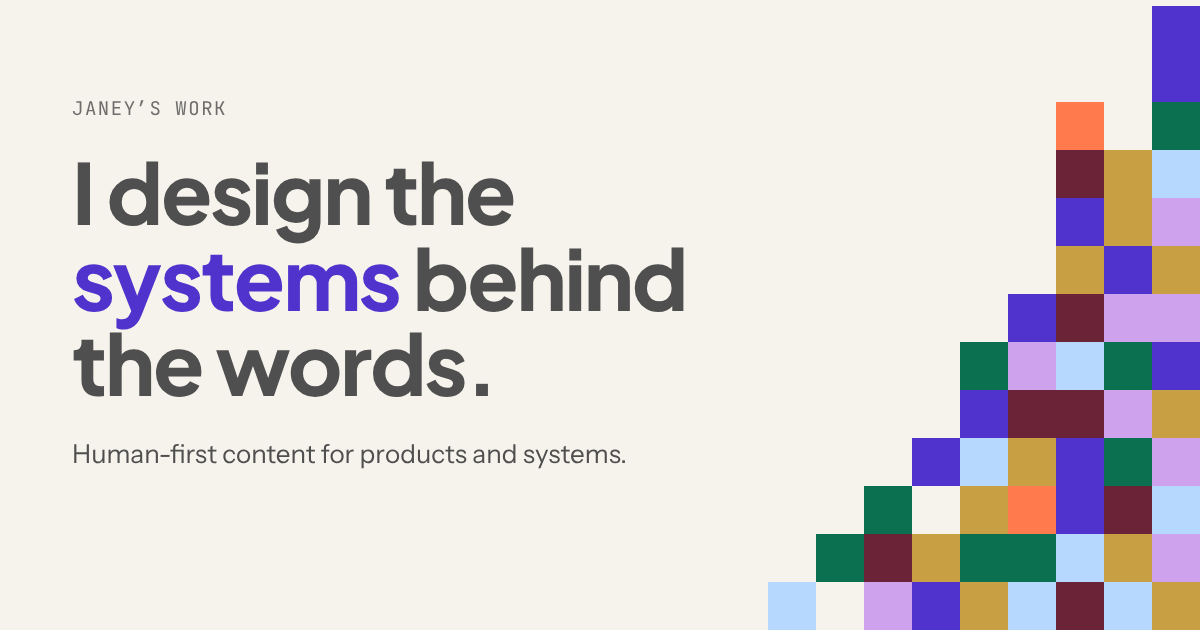
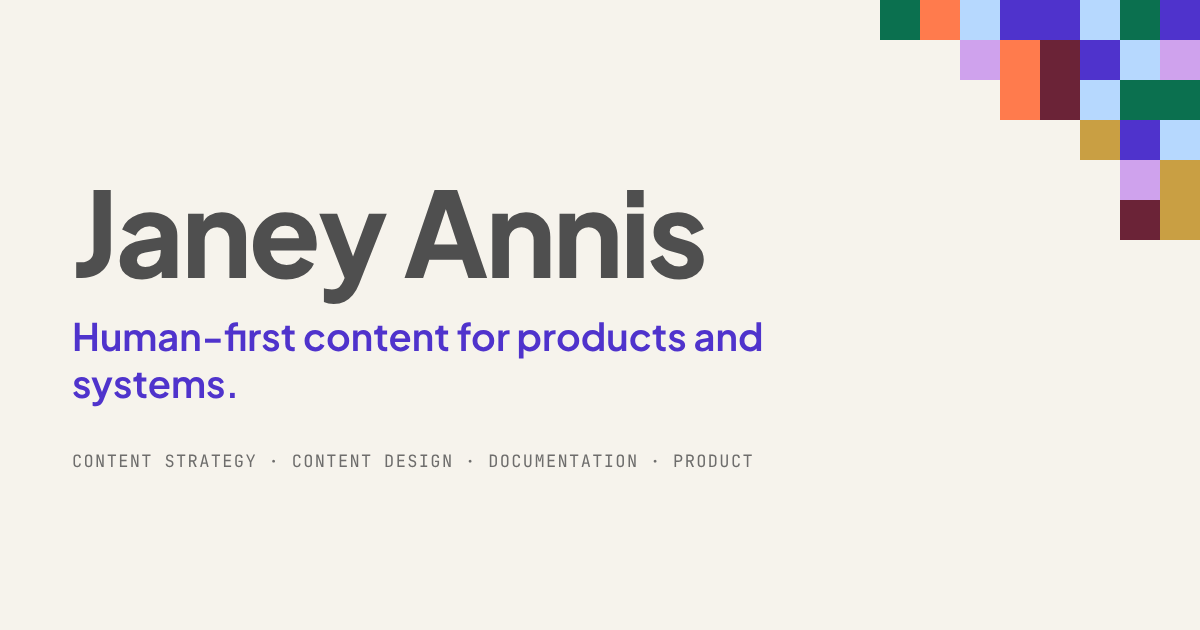
Link previews: name card for the home and general pages
Claude-Session: https://claude.ai/code/session_01CES4MxNcGYPvVgqTCFYaUm

diff --git a/scripts/og/og-home.html b/scripts/og/og-home.html
@@ -21,8 +21,9 @@ const P=['#ff7b4d','#cfa2ed','#0b704f','#c99f43','#b6d8fe','#6b2337','#4f33cc'];
 const grow=(c,n,r,s)=>Math.max(0,Math.min(r,Math.round((c+1)/n*r*0.95+ (mix(c,s)-0.5)*3)));
 const mound=(c,n,r,s)=>Math.max(0,Math.round(r*Math.sin(Math.PI*(c+0.5)/n)*0.9+(mix(c,s)-0.5)*2.5));
 const stair=(c,n,r,s)=>Math.max(0,Math.min(r,Math.floor((c/n)*5+1)*Math.ceil(r/5)-(mix(c,s)<0.25?1:0)));
-</script><div style="position:absolute;left:72px;top:96px;width:640px">
-<p class=mono style="color:var(--muted)">Janey’s Work</p>
-<h1 style="font-size:84px;margin-top:28px">I design the <span style="color:var(--accent)">systems</span> behind the words.</h1>
-<p style="font-size:26px;margin-top:30px;line-height:1.4">Human-first content for products and systems.</p></div>
-<i id=a></i><script>art('a',9,13,48,grow,P,4,768,6)</script>
+</script><div style="position:absolute;left:72px;top:170px;width:820px">
+<h1 style="font-size:118px">Janey Annis</h1>
+<p style="font-family:'Plus Jakarta Sans';font-weight:650;font-size:38px;margin-top:22px;color:var(--accent)">Human-first content for products and systems.</p>
+<p class=mono style="margin-top:44px;color:var(--muted);font-size:17px">Content strategy · Content design · Documentation · Product</p></div>
+<i id=a></i><script>art('a',8,6,40,(c,n,r,s)=>Math.max(0,Math.round((c+1)/n*r+(mix(c,s)-0.6)*2)),P,21,880,0,false)</script>
+<script>document.querySelector('svg').style.transform='scaleY(-1)'</script>
